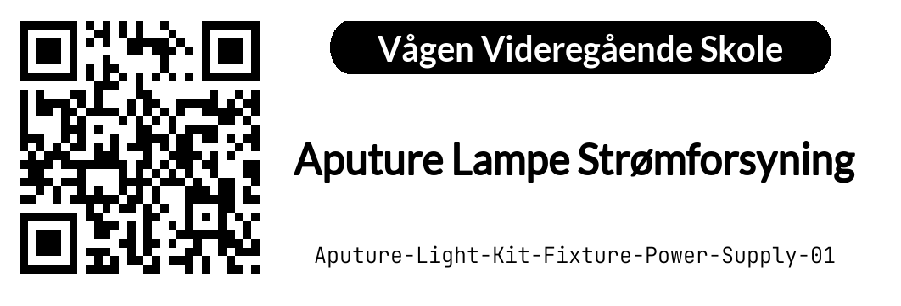
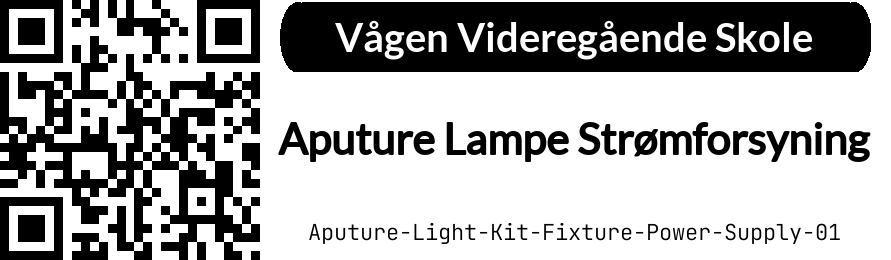
Redo sizing & placement to allow for x/y calibration

diff --git a/src/LabelGenerator.py b/src/LabelGenerator.py
@@ -1,0 +1,129 @@
+import qrcode
+import PIL
+import barcode
+from PIL import ImageFont, Image, ImageDraw
+from barcode import writer
+from dataclasses import dataclass
+from enum import Enum, auto
+
+lx = int(901 * .99)
+ly = int(306 * .85)
+padding = 40
+
+
+@dataclass
+class InventoryItem:
+    id: str
+    item_name: str
+
+
+class LabelType(Enum):
+    QR = auto()
+    BARCODE = auto()
+
+
+def _qr_label(content: InventoryItem) -> PIL.Image:
+    """Create a QR code label for the given content."""
+    font_id = ImageFont.truetype("JetBrainsMono-Light.ttf", size=36)
+    font_name = ImageFont.truetype("Lato-Regular.ttf", size=114)
+    font_logo = ImageFont.truetype("Lato-Bold.ttf", size=40)
+
+    qr_size = (ly, ly)
+    info_size = (lx - ly, ly)
+
+    # Create the QR code
+    qr = qrcode.QRCode(border=0)
+    qr.add_data(content.id)
+    qr_img = qr.make_image(fill_color="black", back_color="white").convert("RGB")
+    qr_img = qr_img.resize(qr_size, resample=PIL.Image.NEAREST)
+
+    # Create the info box
+    info = PIL.Image.new("RGB", info_size, color="white")
+    info_draw = PIL.ImageDraw.Draw(info)
+
+    def draw_text(text, y, font, stroke_width=0, fill="black"):
+        info_draw.text(
+            (info_size[0]/2, y),
+            text,
+            font=font,
+            fill=fill,
+            align="left",
+            anchor="mm",
+            stroke_width=stroke_width,
+        )
+
+    logo_start = 20
+    logo_end = info_size[0] - 20
+    logo_height = 72
+
+    # Create the logo (black pill, white text)
+    logo = PIL.Image.new("RGB", (logo_end, logo_height), color="white")
+    logo_draw = PIL.ImageDraw.Draw(logo)
+    logo_draw.ellipse((logo_start, 2, logo_start + 35, logo_height), fill="black", outline="black", width=15)
+    logo_draw.ellipse((logo_end - 35, 2, logo_end, logo_height), fill="black", outline="black", width=15)
+    logo_draw.rectangle((logo_start + 22, 2, logo_end - 22, logo_height), fill="black", outline="black", width=15)
+    logo_draw.text(((logo_end + 17.5) / 2, logo_height / 2), "Vågen Videregående Skole", font=font_logo, fill="white", align="left", anchor="mm")
+
+    # Find the correct font size
+    while (info_draw.textbbox((0, 0), content.item_name, font=font_name, align="left", anchor="mm")[2] * 2) > lx - qr_size[0] - padding:
+        font_name = font_name.font_variant(size=font_name.size - 1)
+    while (info_draw.textbbox((0, 0), content.id, font=font_id, align="left", anchor="mm")[2] * 2) > lx - qr_size[0] - (padding * 2):
+        font_id = font_id.font_variant(size=font_id.size - 1)
+
+    # Draw the text
+    draw_text(content.item_name, ly / 4, font_name, stroke_width=1)
+    draw_text(content.id, ly / 2 + 30, font_id)
+
+    # Construct the label
+    label = PIL.Image.new("RGB", (lx, ly), color="white")
+    label.paste(info, (qr_size[0], logo_height))
+    label.paste(logo, (qr_size[0], 0))
+    label.paste(qr_img, (0, 0))
+
+    return label
+
+
+def _barcode_label(content: InventoryItem) -> PIL.Image:
+    """Create a barcode label (Code 128) for the given content."""
+    options = {
+        'module_height': 16,
+        'module_width': .35,
+        'font_size': 0,
+    }
+    image = barcode.get('code128', content.id, writer=barcode.writer.ImageWriter())
+    image = image.render(options)
+
+    # Resize the image to fit the label, if needed
+    if image.width > lx:
+        image = image.resize((lx - padding, image.height))
+
+    # Construct the label
+    label = PIL.Image.new("RGB", (lx, ly), color="white")
+    # Add the barcode in the center
+    label.paste(image, (int((lx - image.width) / 2), int((ly - image.height) / 2) - 15))
+    # Add the text below the barcode
+    font_id = ImageFont.truetype("JetBrainsMono-Light.ttf", size=34)
+
+    id_draw = PIL.ImageDraw.Draw(label)
+    while (id_draw.textbbox((0, 0), content.id, font=font_id, align="left", anchor="mm")[2] * 2) > lx - padding:
+        font_id = font_id.font_variant(size=font_id.size - 1)
+    id_draw.text(
+        (lx / 2, ly - 26),
+        content.id,
+        font=font_id,
+        fill="black",
+        align="left",
+        anchor="mm",
+        stroke_width=0,
+    )
+
+    return label
+
+
+def create_label(content: InventoryItem, variant: LabelType = LabelType.QR) -> PIL.Image:
+    """Create a label for the given content and type."""
+    if variant == LabelType.QR:
+        return _qr_label(content)
+    if variant == LabelType.BARCODE:
+        return _barcode_label(content)
+    raise NotImplementedError()

diff --git a/src/app.py b/src/app.py
@@ -1,10 +1,24 @@
 import io
 import flask
+import PIL.Image
 from LabelGenerator import create_label, InventoryItem, LabelType
 from flask_cors import CORS
 
 app = flask.Flask(__name__)
 CORS(app)
+
+label_size = (901, 306)
+
+# The offset of the label on the label sheet, might need some manual tweaking to get it right
+x_offset = 15
+y_offset = 12
+
+
+def make_label(img: PIL.Image) -> PIL.Image:
+    """Add the offset to the given image."""
+    new_label = PIL.Image.new("RGB", label_size, color="white")
+    new_label.paste(img, (x_offset, y_offset))
+    return new_label
 
 
 def request_to_json(request) -> dict:
@@ -49,7 +63,7 @@ def home():
                     <h1>Vågens' Etikett Server</h1>
                     <h2>Made with ❤ by <a href="https:github.com/sondregronas">Sondre Grønås</a></h2>
                 </hgroup>
-                <img src="/preview" alt="Forhåndsvisning" id="preview" style="height:120px; border-radius: 5px;">
+                <img src="/preview" alt="Forhåndsvisning" id="preview" style="height:120px; border: 5px solid white; border-radius: 5px;">
             </center>
             <br>
             <form action="/print" method="POST">
@@ -141,6 +155,7 @@ def print_label():
         }), 400
 
     label = create_label(item, variant=variant)
+    label = make_label(label)
 
     img_bytes = io.BytesIO()
     label.save(img_bytes, format='PNG')

diff --git a/demo/demo.py b/demo/demo.py
@@ -1,4 +1,4 @@
-from LabelGenerator.LabelGenerator import create_label, InventoryItem, LabelType
+from src.LabelGenerator import create_label, InventoryItem, LabelType
 
 label = create_label(InventoryItem("A6500-01", "Sony A6500"))
 label.save("qr.png")

diff --git a/README.md b/README.md
@@ -5,8 +5,8 @@ Simple barcode and QR code label generator API for the Vågen Utstyrsbase.
 
 Label dimensions: `29x90mm`
 
-<img src="demo/barcode_long.png" width="300" alt="Barcode label preview">
-<img src="demo/qr_long.png" width="300" alt="QR label preview">
+<img src="demo/qr_long.png" style="border-radius: 5px; border: 10px solid white; background-color: white;" width="300" alt="QR label preview">
+<img src="demo/barcode_long.png" style="border-radius: 5px; border: 10px solid white; background-color: white;" width="300" alt="Barcode label preview">
 
 
 </div>
